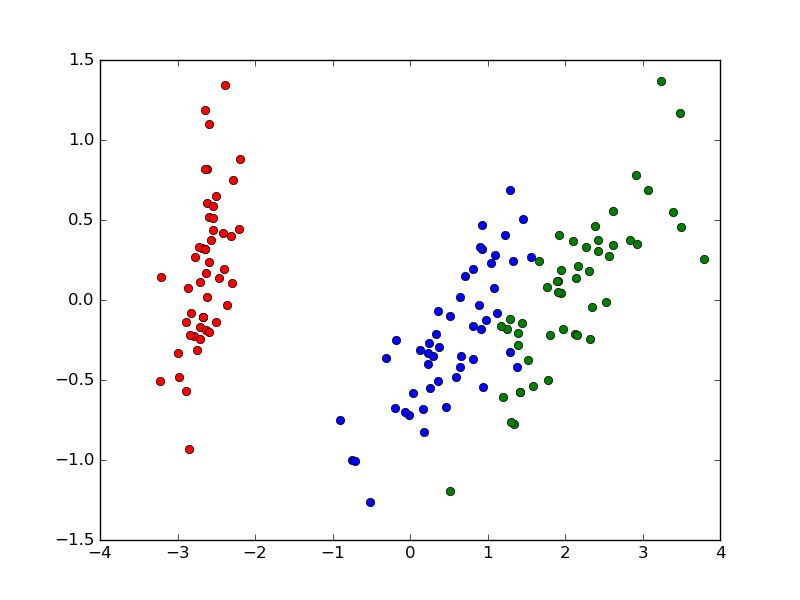
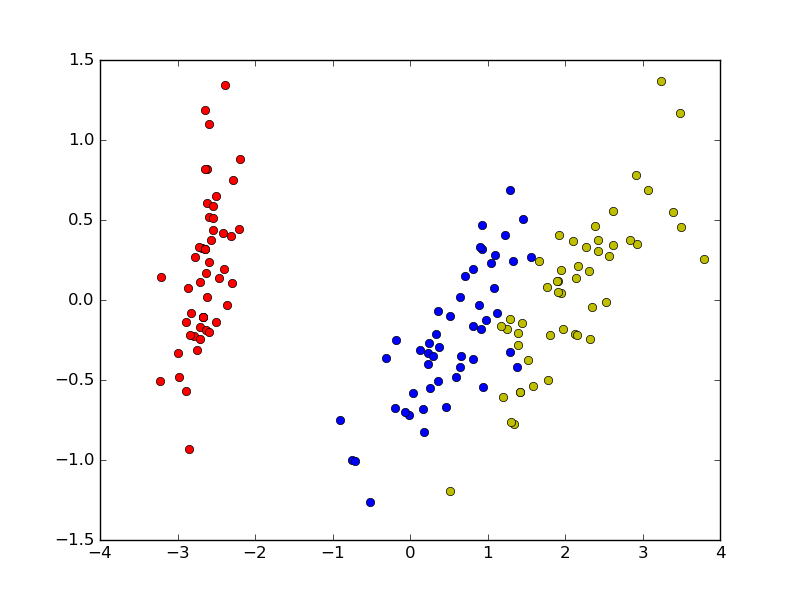
drawing boundaries for 2D Iris

diff --git a/svm/iris_pca.py b/svm/iris_pca.py
@@ -13,25 +13,6 @@ pca = decomposition.PCA(n_components=2)
 pca.fit(X)
 X = pca.transform(X)
 
-
-# fit the model
-clf = svm.SVC(kernel='linear')
-clf.fit(X, y)
-
-# get the separating hyperplanes
-w = clf.coef_[0]
-a = -w[0] / w[1]
-xx = np.linspace(-5, 5)
-yy = a * xx - (clf.intercept_[0]) / w[1]
-plt.plot(xx, yy, 'r-')
-
-w = clf.coef_[2]
-a = -w[0] / w[1]
-xx = np.linspace(-5, 5)
-yy = a * xx - (clf.intercept_[2]) / w[1]
-plt.plot(xx, yy, 'g-')
-
-
 y_0 = np.where(y==0)
 plt.plot(X[y_0, 0], X[y_0, 1], 'ro')
 
@@ -39,6 +20,46 @@ y_1 = np.where(y==1)
 plt.plot(X[y_1, 0], X[y_1, 1], 'bo')
 
 y_2 = np.where(y==2)
-plt.plot(X[y_2, 0], X[y_2, 1], 'go')
+plt.plot(X[y_2, 0], X[y_2, 1], 'yo')
+plt.show()
+
+# step size in the mesh
+h = .02
+
+lin_svc = (svm.SVC(kernel='linear').fit(X, y), y)
+poly_svc = (svm.SVC(kernel='poly').fit(X, y), y)
+rbf_svc = (svm.SVC(kernel='rbf').fit(X, y), y)
+sig_svc = (svm.SVC(kernel='sigmoid').fit(X, y), y)
+
+# create a mesh to plot in
+x_min, x_max = X[:, 0].min() - 1, X[:, 0].max() + 1
+y_min, y_max = X[:, 1].min() - 1, X[:, 1].max() + 1
+xx, yy = np.meshgrid(np.arange(x_min, x_max, h),
+                     np.arange(y_min, y_max, h))
+
+# title for the plots
+titles = ['Linear kernel',
+          'Polynomial kernel',
+          'RBF kernel',
+          'Sigmoid kernel']
+
+color_map = {0: (1, 0, 0), 1: (0, 0, 1), 2: (0.8, 0.6, 0)}
+
+for i, (clf, y_train) in enumerate((lin_svc, poly_svc, rbf_svc, sig_svc)):
+    # Plot the decision boundary. For that, we will assign a color to each
+    # point in the mesh [x_min, x_max]x[y_min, y_max].
+    plt.subplot(2, 2, i + 1)
+    Z = clf.predict(np.c_[xx.ravel(), yy.ravel()])
+
+    # Put the result into a color plot
+    Z = Z.reshape(xx.shape)
+    plt.contourf(xx, yy, Z, cmap=plt.cm.Paired)
+    plt.axis('off')
+
+    # Plot also the training points
+    colors = [color_map[y] for y in y_train]
+    plt.scatter(X[:, 0], X[:, 1], c=colors, cmap=plt.cm.Paired)
+
+    plt.title(titles[i])
 
 plt.show()
